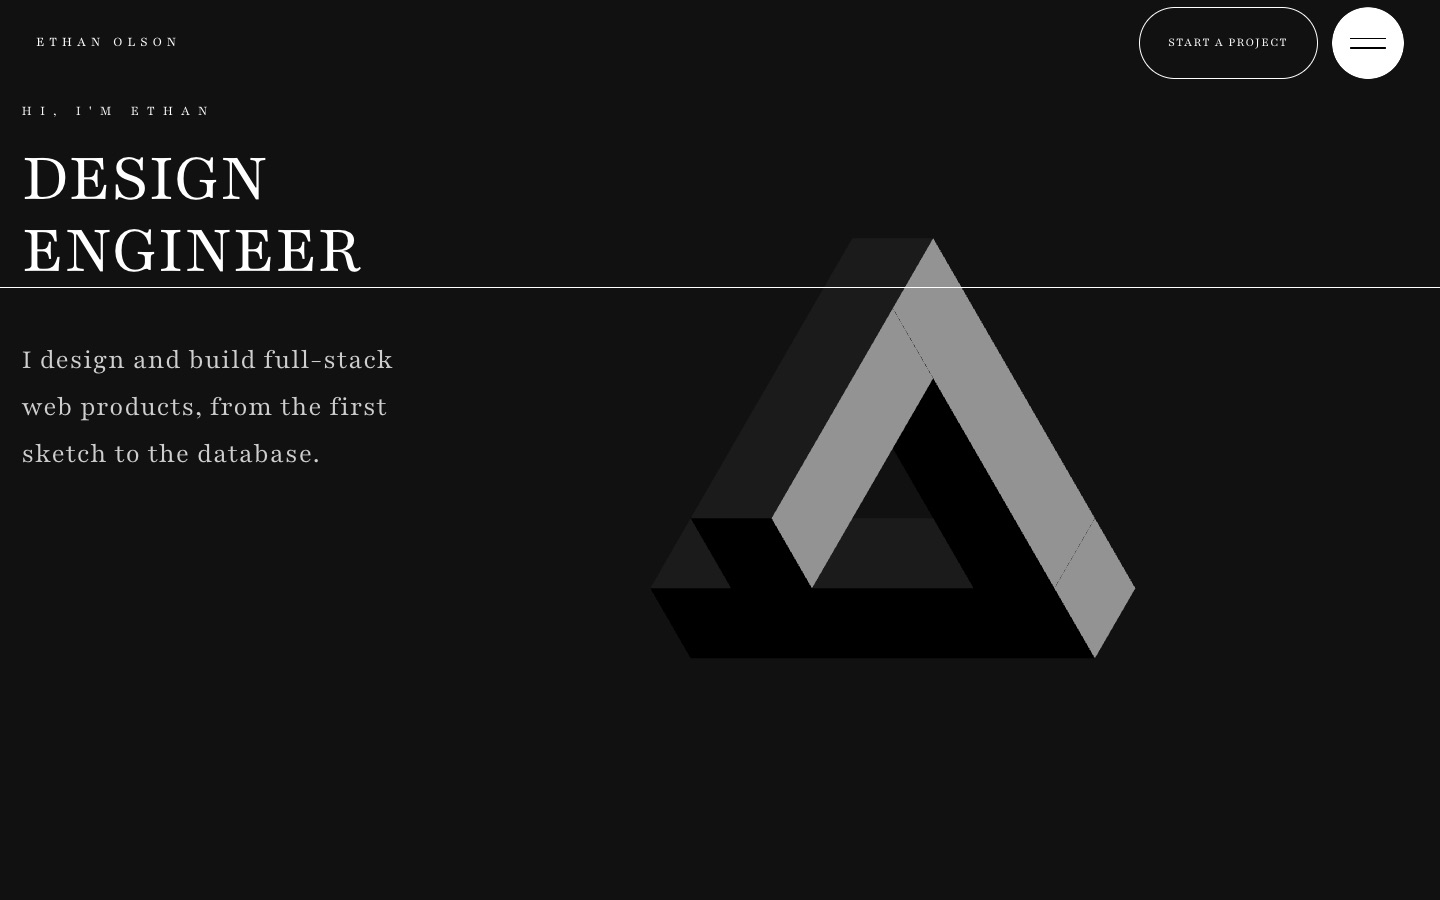
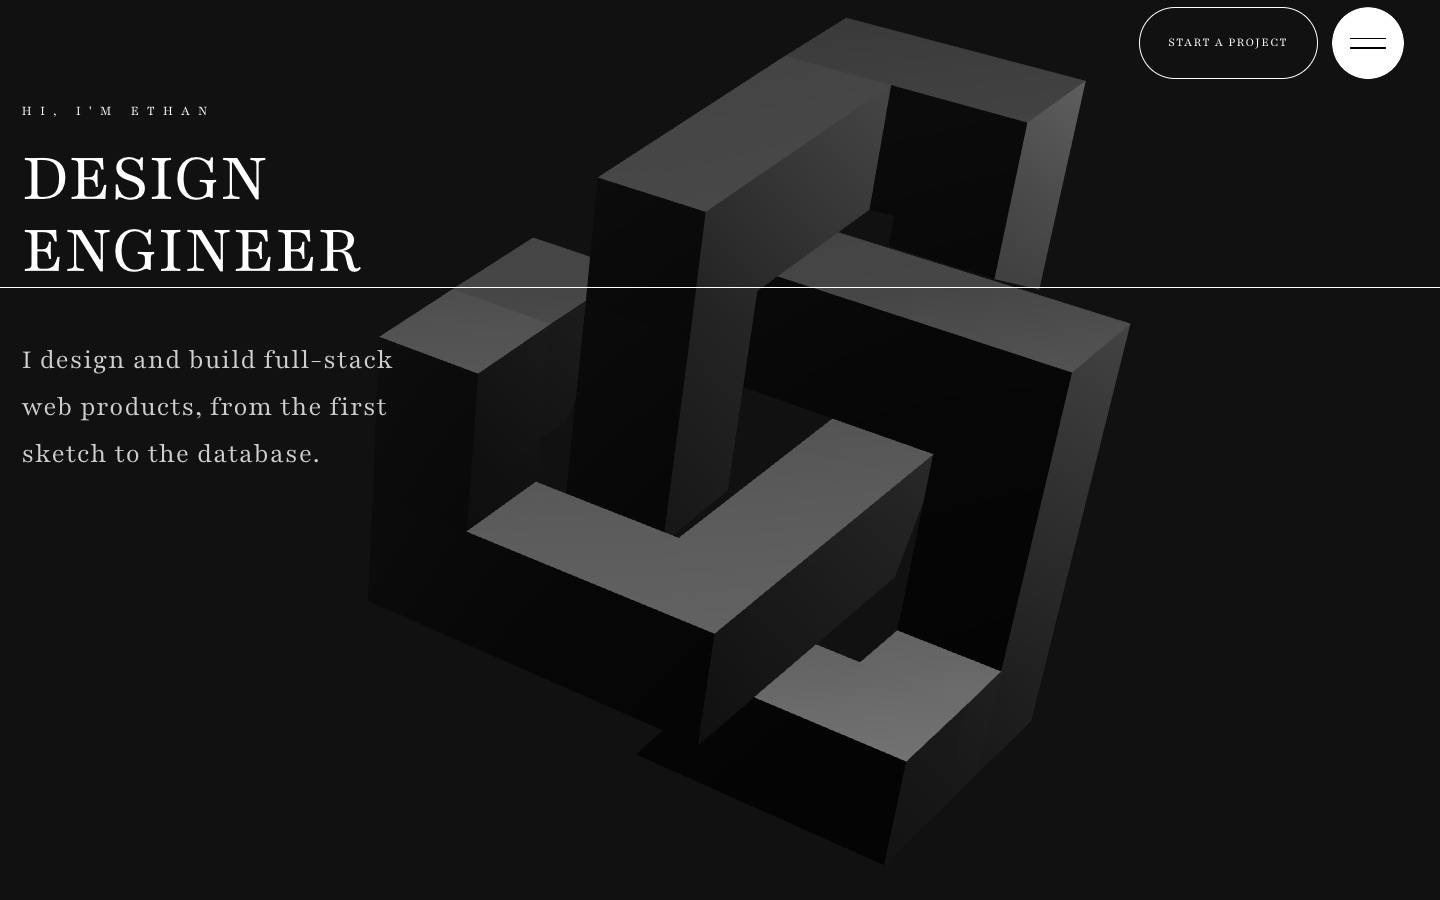
feat(hero): bring back the original optical illusion, reshaped in black metal
Use a modified version of "Optical Illusions" by Johannes R. (CC BY 4.0): the uprights lean by about 12°, the figure is taller and shallower, and it's rendered as dark metal with white studio reflections. It fits narrow screens below the hero text. The navbar no longer shows the name, which overlapped the titles.

Changed region(s): [[0.3125, 0.0, 0.7812, 0.84], [0.25, 0.2489, 0.4062, 0.4356]]

diff --git a/components/ui/OpticalIllusion.tsx b/components/ui/OpticalIllusion.tsx
@@ -1,111 +1,88 @@
 "use client";
 
-import { JSX, useEffect, useMemo, useRef } from "react";
-import * as THREE from "three";
+import { JSX, useEffect, useLayoutEffect, useMemo, useRef } from "react";
+import { useGLTF } from "@react-three/drei";
 import { useThree } from "@react-three/fiber";
+import * as THREE from "three";
 import { gsap } from "@/lib/gsap";
 
-// A Penrose triangle: three perpendicular beams that only look like a closed triangle
-// when viewed along the (1, 1, 1) diagonal. The third beam is one block short, and from
-// that angle the first beam's end fills the gap.
-const LENGTH = 5;
-const VIEW_DIRECTION = new THREE.Vector3(1, 1, 1).normalize();
-
-const beams: { size: [number, number, number]; center: [number, number, number] }[] = [
-  { size: [LENGTH, 1, 1], center: [LENGTH / 2, 0.5, 0.5] },
-  { size: [1, LENGTH - 1, 1], center: [LENGTH - 0.5, (LENGTH + 1) / 2, 0.5] },
-  { size: [1, 1, LENGTH - 2], center: [LENGTH - 0.5, LENGTH - 0.5, LENGTH / 2] },
-];
-
-// Centroid of the three corner blocks, so the visible triangle is centered
-const CENTER: [number, number, number] = [-(2 * LENGTH - 0.5) / 3, -(LENGTH + 0.5) / 3, -0.5];
+// Modified version of "Optical Illusions" by Johannes R. (CC BY 4.0), see CREDITS.md
+const MODEL = "/models/optical-illusion.glb";
 
 const START_ROTATION = { x: -1.2, y: 0.8, z: 0.4 };
-
-// Turns the figure so its illusion diagonal points at a camera on the -z side,
-// with the first beam lying horizontally on screen and the triangle pointing up.
-function illusionQuaternion() {
-  const toCamera = new THREE.Quaternion().setFromUnitVectors(
-    VIEW_DIRECTION,
-    new THREE.Vector3(0, 0, -1)
-  );
-  const firstBeam = new THREE.Vector3(1, 0, 0).applyQuaternion(toCamera);
-  const roll = new THREE.Quaternion().setFromAxisAngle(
-    new THREE.Vector3(0, 0, 1),
-    Math.PI - Math.atan2(firstBeam.y, firstBeam.x)
-  );
-  return roll.multiply(toCamera);
-}
-
-const ORIENTATION = illusionQuaternion();
+const FINAL_ROTATION = { x: -0.6, y: 2.5, z: 0.05 };
 
 export function OpticalIllusion({
   reduceMotion = false,
+  onReady,
   ...props
-}: JSX.IntrinsicElements["group"] & { reduceMotion?: boolean }) {
+}: JSX.IntrinsicElements["group"] & { reduceMotion?: boolean; onReady?: () => void }) {
   const container = useRef<THREE.Group>(null);
-  const { viewport } = useThree();
-  // Sized and placed relative to the viewport, so it works for any camera zoom
-  const scale = Math.min(viewport.height * 0.11, viewport.width * 0.15);
-  const wide = viewport.aspect > 1;
-  // The camera looks along +z, so screen-right is world -x
-  const offsetX = wide ? -viewport.width * 0.12 : 0;
-  const offsetY = wide ? -viewport.height * 0.05 : -viewport.height * 0.2;
+  const { scene } = useGLTF(MODEL);
 
+  const { viewport } = useThree();
+  // Fit narrow screens, and sit below the hero text on phones
+  const fit = Math.min(1, viewport.width / 2.6);
+  const offsetY = viewport.aspect < 1 ? -viewport.height * 0.16 : 0;
+
+  // Polished gunmetal: dark where it faces the room, white where it mirrors a softbox
   const material = useMemo(
     () =>
       new THREE.MeshPhysicalMaterial({
-        color: "#2B2B2B",
+        color: "#2e2e2e",
         metalness: 1,
-        roughness: 0.25,
-        clearcoat: 0.1,
+        // Slightly brushed, so each strip's reflection spreads into a soft white gradient
+        roughness: 0.38,
+        clearcoat: 0.4,
         clearcoatRoughness: 0.1,
-        envMapIntensity: 2.2,
+        envMapIntensity: 2.6,
       }),
     []
   );
 
   useEffect(() => () => material.dispose(), [material]);
 
-  // Rotate into the one angle where the triangle closes
+  useLayoutEffect(() => {
+    scene.traverse((child) => {
+      if ((child as THREE.Mesh).isMesh) (child as THREE.Mesh).material = material;
+    });
+    scene.scale.setScalar(0.5);
+    scene.position.set(0, -1.23, 0.6);
+  }, [scene, material]);
+
+  // Turn into place once the model is ready
   useEffect(() => {
     const group = container.current;
     if (!group) return;
+    onReady?.();
 
     if (reduceMotion) {
-      group.rotation.set(0, 0, 0);
+      group.rotation.set(FINAL_ROTATION.x, FINAL_ROTATION.y, FINAL_ROTATION.z);
       return;
     }
 
     const tween = gsap.fromTo(group.rotation, START_ROTATION, {
-      x: 0,
-      y: 0,
-      z: 0,
-      duration: 2.4,
+      ...FINAL_ROTATION,
+      duration: 2.2,
       ease: "expo.out",
     });
     return () => {
       tween.kill();
     };
-  }, [reduceMotion]);
+  }, [reduceMotion, onReady]);
 
   return (
     <group
       ref={container}
-      position={[offsetX, offsetY, 0]}
-      scale={scale}
+      scale={fit}
+      position={[0, offsetY, 0]}
       {...props}
+      dispose={null}
       rotation={[START_ROTATION.x, START_ROTATION.y, START_ROTATION.z]}
     >
-      <group quaternion={ORIENTATION}>
-        <group position={CENTER}>
-          {beams.map(({ size, center }, index) => (
-            <mesh key={index} position={center} material={material}>
-              <boxGeometry args={size} />
-            </mesh>
-          ))}
-        </group>
-      </group>
+      <primitive object={scene} />
     </group>
   );
 }
+
+useGLTF.preload(MODEL);

diff --git a/components/sections/Hero.tsx b/components/sections/Hero.tsx
@@ -1,6 +1,6 @@
 "use client";
 
-import { useEffect, useRef, useState } from "react";
+import { Suspense, useCallback, useEffect, useRef, useState } from "react";
 import { Canvas } from "@react-three/fiber";
 import { Environment, Float, Lightformer } from "@react-three/drei";
 import AnimatedHeaderSection from "@/components/ui/AnimatedHeaderSection";
@@ -15,6 +15,7 @@ const Hero = () => {
   const reduceMotion = usePrefersReducedMotion();
   const fastWebGL = useFastWebGL();
   const [sceneReady, setSceneReady] = useState(false);
+  const onFigureReady = useCallback(() => setSceneReady(true), []);
 
   // Stop rendering the scene once it scrolls out of view
   useEffect(() => {
@@ -49,26 +50,25 @@ const Hero = () => {
         >
           <Canvas
             frameloop={inView ? "always" : "never"}
-            orthographic
-            // No perspective: the illusion only lines up in a parallel projection
-            camera={{ position: [0, 0, -10], zoom: 100, near: 0.1, far: 50 }}
-            onCreated={() => setSceneReady(true)}
+            camera={{ position: [0, 0, -10], fov: 17.5, near: 1, far: 20 }}
           >
-            <ambientLight intensity={1} />
-            {/* Low rotation keeps the illusion intact while the figure floats */}
-            <Float
-              speed={reduceMotion ? 0 : 1}
-              rotationIntensity={reduceMotion ? 0 : 0.15}
-              floatIntensity={reduceMotion ? 0 : 1}
-            >
-              <OpticalIllusion reduceMotion={reduceMotion} />
-            </Float>
+            <ambientLight intensity={0.4} />
+            <Suspense fallback={null}>
+              <Float
+                speed={reduceMotion ? 0 : 1}
+                rotationIntensity={reduceMotion ? 0 : 1}
+                floatIntensity={reduceMotion ? 0 : 1}
+              >
+                <OpticalIllusion reduceMotion={reduceMotion} onReady={onFigureReady} />
+              </Float>
+            </Suspense>
+            {/* Key and rim lights: soft white gradients across the metal faces */}
+            <directionalLight position={[-4, 6, -8]} intensity={9} />
+            <directionalLight position={[6, -2, -6]} intensity={3} />
+            {/* Studio strips: sharp white reflections on the edges */}
             <Environment resolution={512}>
               <group rotation={[0, 0, 0]}>
-                {/* Top strip light */}
-                <Lightformer form="rect" intensity={10} position={[0, 5, 0]} scale={[10, 2, 0]} />
-
-                {/* Left vertical strip */}
+                <Lightformer form="rect" intensity={16} position={[0, 5, 0]} scale={[10, 2, 0]} />
                 <Lightformer
                   form="rect"
                   intensity={6}
@@ -76,8 +76,6 @@ const Hero = () => {
                   rotation={[0, Math.PI / 2, 0]}
                   scale={[10, 2, 0]}
                 />
-
-                {/* Right vertical strip */}
                 <Lightformer
                   form="rect"
                   intensity={6}
@@ -85,9 +83,9 @@ const Hero = () => {
                   rotation={[0, -Math.PI / 2, 0]}
                   scale={[10, 2, 0]}
                 />
-
-                {/* Back kicker */}
                 <Lightformer form="circle" intensity={4} position={[0, 0, -2]} scale={5} />
+                {/* Front strip, on the camera side */}
+                <Lightformer form="rect" intensity={10} position={[1, 2, -6]} scale={[6, 1.2, 1]} />
               </group>
             </Environment>
           </Canvas>

diff --git a/components/ui/Navbar.tsx b/components/ui/Navbar.tsx
@@ -298,17 +298,7 @@ const Navbar = () => {
       </nav>
 
       <div className="fixed z-200 top-4 xl:top-[0.5vw] inset-x-0 pointer-events-none min-w-[320px]">
-        <div className="mx-auto w-full px-10 xl:px-[2.5vw] flex items-center justify-between gap-4">
-          <a
-            href="#home"
-            onClick={(e) => handleNavClick(e, "home")}
-            className={`uppercase tracking-[0.3rem] text-sm md:text-base xl:text-[1vw] transition-opacity duration-300 ${
-              isOpen ? "text-black md:text-white" : "text-white"
-            } ${showHeader ? "pointer-events-auto opacity-100" : "opacity-0"}`}
-          >
-            {site.name}
-          </a>
-
+        <div className="mx-auto w-full px-10 xl:px-[2.5vw] flex items-center justify-end gap-4">
           <div className="flex items-center gap-3 xl:gap-[1vw]">
             <a
               href="#contact"

diff --git a/README.md b/README.md
@@ -11,12 +11,11 @@ copy are invented to show how a motion-rich, full-stack portfolio is made.
 
 **Live:** not deployed yet. It will be published at `ethanolson.dev`.
 
-![The hero section: "Design Engineer" next to a 3D Penrose triangle](.github/assets/hero.jpg)
+![The hero section: "Design Engineer" next to a 3D optical illusion](.github/assets/hero.jpg)
 
 ## What it does
 
-- A real-time 3D Penrose triangle in the hero: three straight beams that only look like a
-  closed, impossible triangle from one angle, which the intro animation rotates into
+- A real-time 3D optical illusion in the hero, in black metal, that turns into place on load
 - Pinned scroll scenes: a zoom grid, an SVG mask reveal over video, a horizontal services
   track and a column parallax gallery
 - Full `prefers-reduced-motion` support: every scene has a static fallback
@@ -39,7 +38,7 @@ contact flow with Zod, Resend and Vercel BotID, Umami, self-built Web Vitals and
 ```text
 app/                  routes, metadata, icons, OG image, robots, sitemap
 components/sections/  one component per page section
-components/ui/        shared UI (header animation, navbar, gallery, Penrose triangle)
+components/ui/        shared UI (header animation, navbar, gallery, 3D figure)
 components/providers/ smooth scrolling (Lenis)
 content/              all copy and media paths (site.ts, sections.ts)
 lib/                  GSAP setup, animation helpers, media-query hooks

diff --git a/CREDITS.md b/CREDITS.md
@@ -20,8 +20,15 @@ repository. They are not for resale.
   royalty-free stock footage.
 - `public/videos/*-poster.jpg`: still frames from those two videos.
 
+## 3D model
+
+- `public/models/optical-illusion.glb`: modified from
+  ["Optical Illusions"](https://sketchfab.com/3d-models/optical-illusions-bd5b32c2851749a7abcdc66c92a95965)
+  by [Johannes R.](https://sketchfab.com/selkie3d), licensed under
+  [CC BY 4.0](https://creativecommons.org/licenses/by/4.0/). Changes: the edges were
+  reshaped (the uprights lean by about 12°, the figure is 15% taller and 15% shallower)
+  and the material was replaced.
+
 ## Original work
 
-- The 3D Penrose triangle in the hero (`components/ui/OpticalIllusion.tsx`): built in code
-  for this project.
 - `public/projects/work-*.svg`: wireframe placeholders, made for this project.
